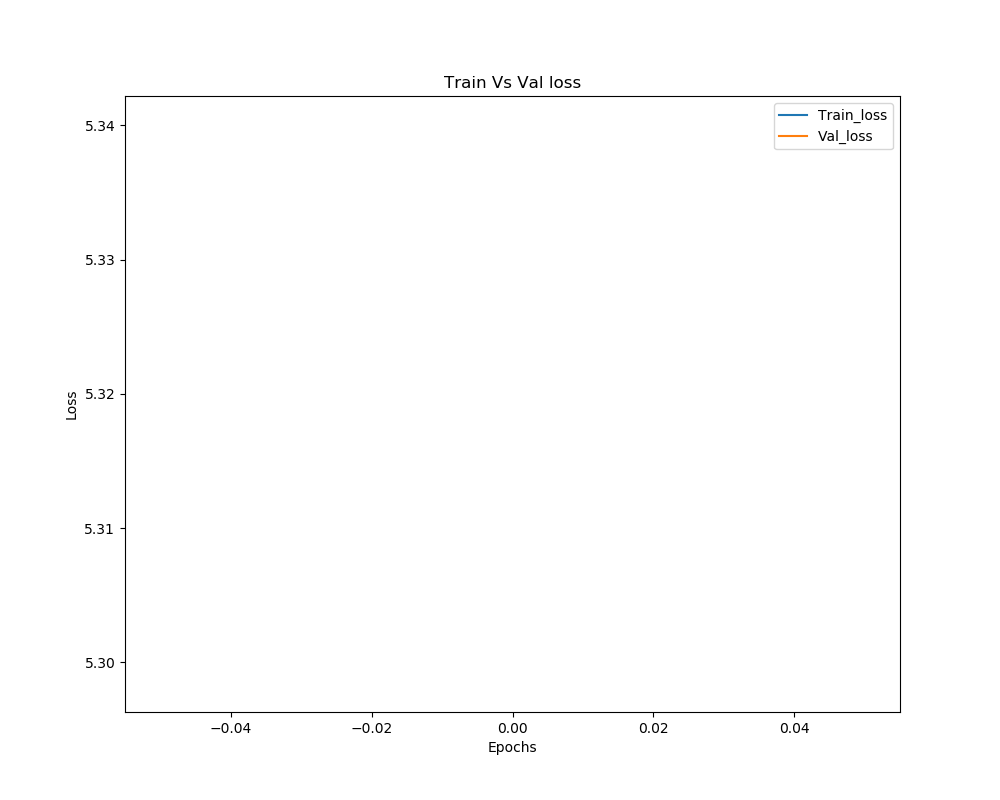
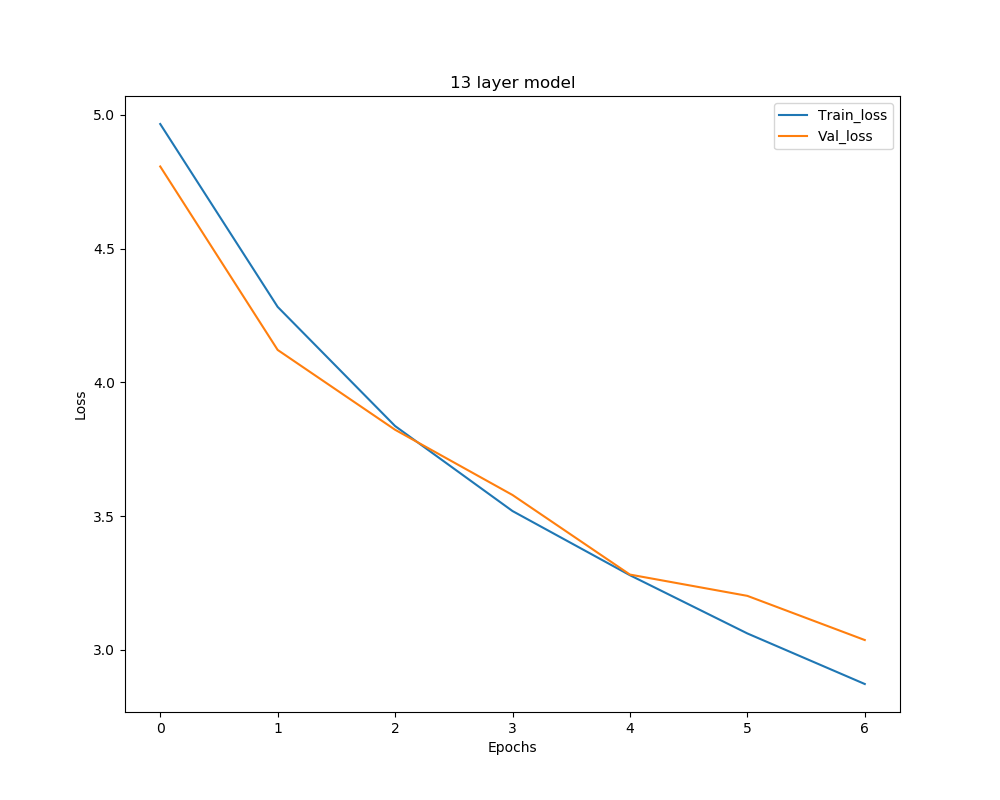
result  update

diff --git a/train.py b/train.py
@@ -23,14 +23,14 @@ def get_args():
                                                                            It must be in the data directory """)
     parser.add_argument('-v', '--val', type=str, default='val_', help="""required image dataset for training a model.
                                                                               It must be in the data directory """)
-    parser.add_argument('-b', '--batchsize', type=int, choices=[16,32,50], default=16, help='select number of samples to load from dataset')
+    parser.add_argument('-b', '--batchsize', type=int, choices=[64,128,256], default=64, help='select number of samples to load from dataset')
     parser.add_argument('-e', '--epochs', type=int, choices=[50, 100, 150], default=50)
     parser.add_argument('-d', '--depth', type=int, choices=[11,13,16,19], default=11, help='depth of the deep learning model')
     parser.add_argument('-c11', '--conv1_1', action='store_true', default=False,
                         help="""setting it True will replace some of the 3x3 Conv layers with 1x1 Conv layers in the 16 layer network""")
     parser.add_argument('-es', '--early_stopping', type=int, default= 6, help="""early stopping is used to stop training of network, 
                                                                         if does not improve validation loss""")
-    parser.add_argument('-i', '--imagesize', type=int, default=224, help="it is used to resize the image pixels" )
+    parser.add_argument('-i', '--imagesize', type=int, default=64, help="it is used to resize the image pixels" )
     parser.add_argument('-lr', '--lr', type=int, default=0.001, help="learning rate for an Adam optimizer")
     args = parser.parse_args()
     return args
@@ -67,13 +67,13 @@ def train(opt):
     else:
         model = Vgg(num_channels=num_channels, num_classes=classes, depth=opt.depth, initialize_weights=True,
                     conv1_1=False).to(device)
-
+    # return model
     optimizer = optim.Adam(model.parameters(), lr=opt.lr)
     criterion = nn.CrossEntropyLoss()
 
     def plot_fig(train_loss, val_loss):
         plt.figure(figsize=(10,8))
-        plt.title("Train Vs Val loss")
+        plt.title("{} layer model".format(opt.depth))
         plt.plot(train_loss, label= 'Train_loss')
         plt.plot(val_loss, label= 'Val_loss')
         plt.xlabel("Epochs")
@@ -184,5 +184,7 @@ if __name__ == '__main__':
     opt = get_args()
     loss = train(opt)
     print(loss)
-
-
+# if __name__ == '__main__':
+#     opt=get_args()
+#     print(train(opt=opt))
+#

diff --git a/src/vdcnnIR.py b/src/vdcnnIR.py
@@ -101,8 +101,8 @@ class Vgg(nn.Module):
                 layers.append(
                     ConvBlock(input_features=8 * base_features, output_features=8 * base_features, kernel=3, padding=1,
                               stride=1))
-        layers.append(nn.AdaptiveAvgPool2d(8))
-        fc_layers.extend([nn.Linear(in_features=8*8*(8*base_features), out_features= base_features*base_features),nn.ReLU()])
+        layers.append(nn.MaxPool2d(kernel_size=2, stride=2))
+        fc_layers.extend([nn.Linear(in_features=2*2*(8*base_features), out_features= base_features*base_features),nn.ReLU()])
         fc_layers.extend([nn.Linear(in_features=base_features*base_features, out_features= base_features*base_features),nn.ReLU()])
         fc_layers.extend([nn.Linear(in_features=base_features*base_features, out_features= self.num_classes)])
         self.layers = nn.Sequential(*layers)

diff --git a/README.md b/README.md
@@ -35,6 +35,23 @@ The models were trained on GPU, which is having a configuration of Nvidia-GTX 10
 
 ### Results
 
+<b>Model performance plots:</b>
+
+![11 layer model](figures/trainVal_loss_11.png?raw=true "11 layer model")   ![13 layer model](figures/trainVal_loss_13.png?raw=true "13 layer model")
+
+![11 layer model](figures/trainVal_loss_16.png?raw=true "16 layer model")   ![13 layer model](figures/trainVal_loss_13.png?raw=true "13 layer model")
+
+
+
+<!--<p>-->
+<!--  <img src="figures/trainVal_loss_11.png" width="600" title="11 layer model">-->
+<!--  <img src="figures/trainVal_loss_13.png" width="600" title="11 layer model">-->
+<!--</p>-->
+
+
+
+
+
 <b>Accuracy:</b>
 Coming soon
 
